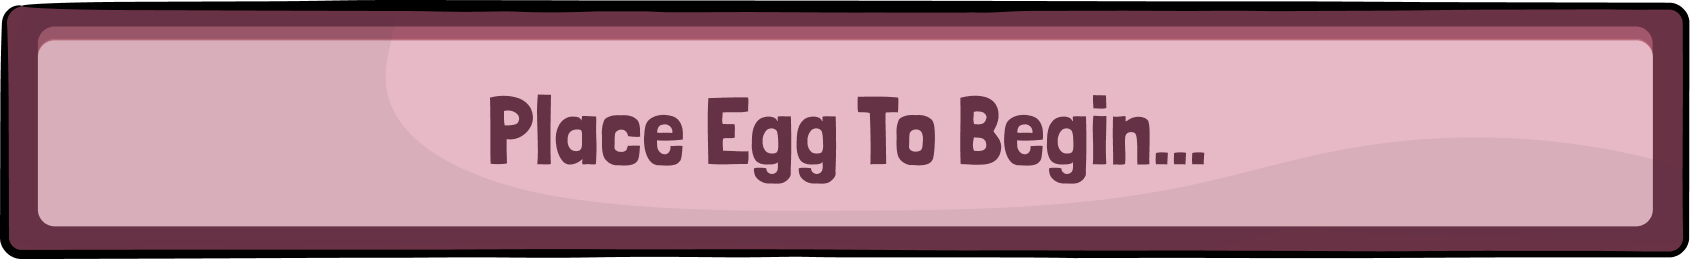
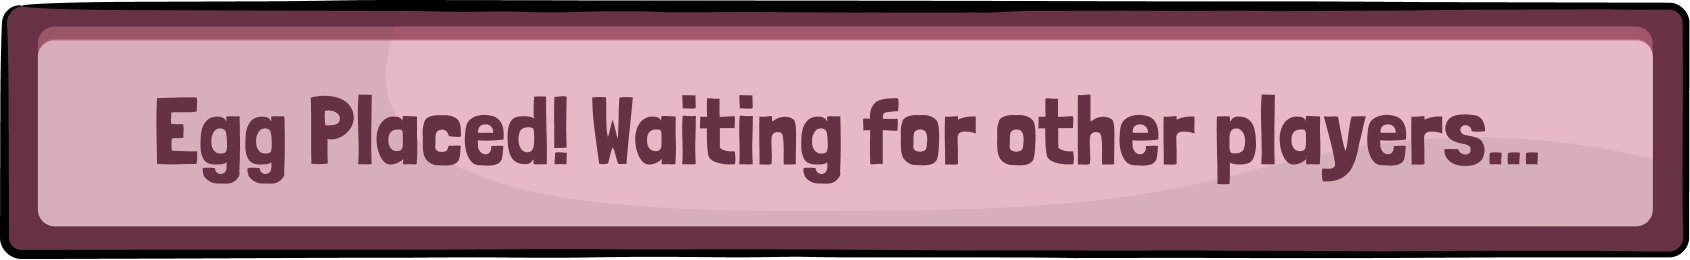
checked file paths and updated some out and disabled logic

Changed region(s): [[0.0923, 0.3692, 0.9231, 0.7077]]

diff --git a/game/game.js b/game/game.js
@@ -276,7 +276,9 @@ export class Game {
     if (this.state !== STATES.SCENARIO) return;
     const player = this.players[pedestalIndex];
     if (!player) return;
+    if (player.out) return;
 
+    if (optionKey === player.disabled) return;
     player.setChoice(optionKey);
 
     if (this.onPlayerChoice) {
@@ -290,7 +292,9 @@ export class Game {
           choice: p.choice,
         })),
       });
-      this.chosen[pedestalIndex] = true;
+      if (player.choice !== player.disabled) {
+        this.chosen[pedestalIndex] = true;
+      }
     }
     console.log(player.species, player.choice);
 
@@ -301,7 +305,9 @@ export class Game {
       }
     });
 
-    if (choices >= 4) {
+    const playersIn = this.players.filter((p) => !p.out).length;
+
+    if (choices >= playersIn) {
       this.endRound();
     }
   }
@@ -313,7 +319,14 @@ export class Game {
       tally = { helpful: 0, selfish: 0 };
       this.players.forEach((p) => {
         if (!p.out) {
-          const choice = p.choice ?? "selfish";
+          const choice =
+            p.choice && p.choice !== this.currentOptionsOrder[p.disabled]
+              ? p.choice
+              : p.disabled
+                ? this.currentOptionsOrder[p.disabled] == "selfish"
+                  ? "helpful"
+                  : "selfish"
+                : "selfish";
           tally[choice] += 1;
           if (p.isImpostor) impostorChoice = choice;
         }
@@ -322,7 +335,14 @@ export class Game {
       tally = { "option 1": 0, "option 2": 0, "option 3": 0 };
       this.players.forEach((p) => {
         if (!p.out) {
-          const choice = p.choice ?? "option 1";
+          const choice =
+            p.choice && p.choice !== this.currentOptionsOrder[p.disabled]
+              ? p.choice
+              : p.disabled
+                ? this.currentOptionsOrder[p.disabled] == "option 1"
+                  ? "option 2"
+                  : "option 1"
+                : "option 1";
           tally[choice] += 1;
           if (p.isImpostor) impostorChoice = choice;
         }
@@ -331,7 +351,14 @@ export class Game {
       tally = { best: 0, neutral: 0, worst: 0 };
       this.players.forEach((p) => {
         if (!p.out) {
-          const choice = p.choice ?? "worst";
+          const choice =
+            p.choice && p.choice !== this.currentOptionsOrder[p.disabled]
+              ? p.choice
+              : p.disabled
+                ? this.currentOptionsOrder[p.disabled] == "worst"
+                  ? "neutral"
+                  : "worst"
+                : "worst";
           tally[choice] += 1;
           if (p.isImpostor) impostorChoice = choice;
         }
@@ -416,7 +443,10 @@ export class Game {
   }
 
   FinleyPassive() {
-    const finley = this.players.find((p) => p.species === "Nine-Tailed Fish" && !p.out && !p.isImpostor&& !p.item);
+    const finley = this.players.find(
+      (p) =>
+        p.species === "Nine-Tailed Fish" && !p.out && !p.isImpostor && !p.item,
+    );
     if (!finley) return "No_Finley";
 
     // Get all injured players (that are stil in)
@@ -437,7 +467,10 @@ export class Game {
   }
 
   WaddlesPassive(roundWG) {
-    const waddles = this.players.find((p) => p.species === "Duck Duck Goose" && !p.out && !p.isImpostor&& !p.item);
+    const waddles = this.players.find(
+      (p) =>
+        p.species === "Duck Duck Goose" && !p.out && !p.isImpostor && !p.item,
+    );
     if (!waddles) return ["No_Waddles", roundWG];
 
     // Count choices
@@ -464,7 +497,9 @@ export class Game {
   }
 
   SprigPassive(roundWG) {
-    const sprig = this.players.find((p) => p.species === "Jackalope" && !p.out && !p.isImpostor&& !p.item);
+    const sprig = this.players.find(
+      (p) => p.species === "Jackalope" && !p.out && !p.isImpostor && !p.item,
+    );
     if (!sprig) return ["No_Sprig", roundWG];
 
     // Count all choices
@@ -529,14 +564,21 @@ export class Game {
       let value = [];
       this.players.forEach((p) => {
         if (!p.out) {
-          const choiceIndex = p.choice ?? "option 1";
+          const choiceIndex =
+            p.choice && p.choice !== this.currentOptionsOrder[p.disabled]
+              ? p.choice
+              : p.disabled
+                ? this.currentOptionsOrder[p.disabled] == "option 1"
+                  ? "option 2"
+                  : "option 1"
+                : "option 1";
           winningChoices.push(this.currentOptions[choiceIndex]);
           value = this.currentOptions[choiceIndex];
           // if (this.currentScenarioCategory == "item") {
           //   p.item == this.currentScenario.item;
           //   this.resultText = value[2];
           //   total += 1;
-          // } else 
+          // } else
           if (this.currentScenarioCategory == "sacrifice") {
             value = this.handleSacrificeScenario(
               this.currentOptions[choiceIndex],
@@ -549,17 +591,18 @@ export class Game {
           }
         }
       });
-      if (typeof total === "number") {
-        roundWG = total / this.players.length;
+      const playersIn = this.players.filter((p) => !p.out).length;
+      if (typeof total === "number" && playersIn > 0) {
+        roundWG = total / playersIn;
       }
     }
     console.log("Result Text ");
     console.log(this.resultText);
     const smoulderAction = this.SmoulderPassive(roundWG);
     const smoulderResult = smoulderAction[0];
-    roundWG = smoulderAction[1]
+    roundWG = smoulderAction[1];
     const finleyResult = this.FinleyPassive();
-    const sprigAction = this.SprigPassive(roundWG)
+    const sprigAction = this.SprigPassive(roundWG);
     const sprigResult = sprigAction[0];
     roundWG = sprigAction[1];
     const waddlesAction = this.WaddlesPassive(roundWG);

diff --git a/my-react-app/src/pages/scenario-screen/page.jsx b/my-react-app/src/pages/scenario-screen/page.jsx
@@ -34,7 +34,7 @@ export default function ScenarioScreen({
     ? `url(/backgrounds/${scenarioData.media.background})`
     : null;
 
-  const narration = scenarioData ? `/sounds/${scenarioData.media.sound}` : null;
+  const narration = scenarioData ? `/sounds/narrations/${scenarioData.media.sound}` : null;
 
   let narDuration = null;
 
